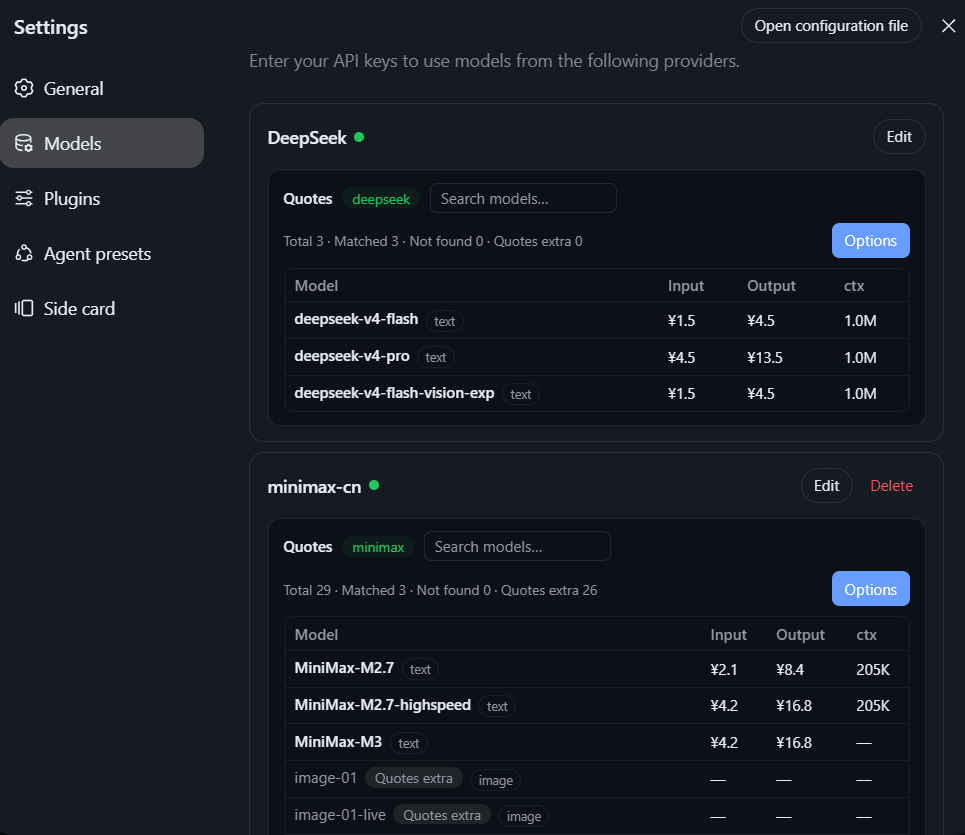
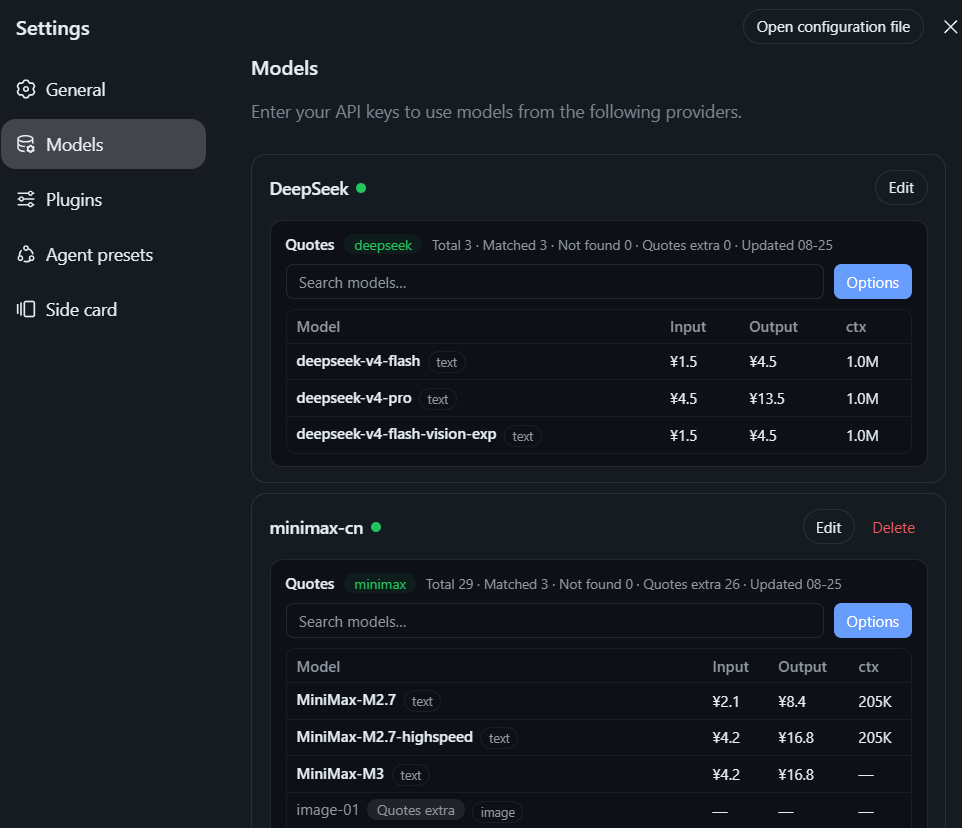
chore: update screenshot, ignore docs/, default branch main
- refresh assets/screenshot-1.png
- add docs/ to .gitignore (internal notes, not published) and untrack
- README: reference default branch 'main' (matches git branch -M main)

diff --git a/README.md b/README.md
@@ -90,7 +90,7 @@ Pricing data is provided by **LLMRates.ai** and is free, read-only, and updated 
 
 ## Contributing
 
-PRs and issues are welcome! The project is iterating quickly right now, so please **rebase** your branch onto the latest `master` before opening a PR to avoid messy merge conflicts.
+PRs and issues are welcome! The project is iterating quickly right now, so please **rebase** your branch onto the latest `main` before opening a PR to avoid messy merge conflicts.
 
 ## Screenshot
 
@@ -185,7 +185,7 @@ pnpm test             # 可选：运行单元测试
 
 ## 贡献
 
-欢迎提交 PR 与 Issue！项目近期迭代频繁，请在提交 PR 前将分支 **rebase** 到最新的 `master`，以避免复杂的合并冲突。
+欢迎提交 PR 与 Issue！项目近期迭代频繁，请在提交 PR 前将分支 **rebase** 到最新的 `main`，以避免复杂的合并冲突。
 
 ## 截图
 
